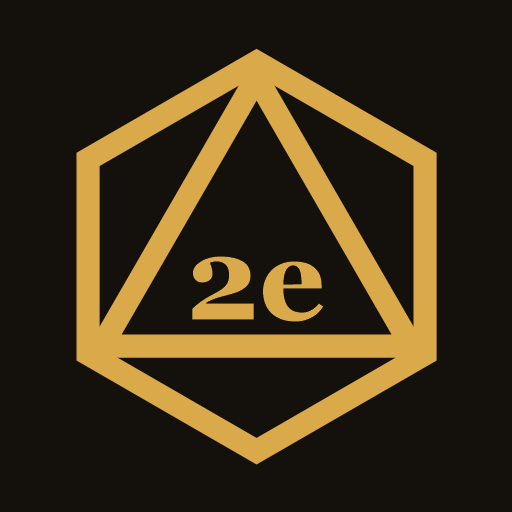
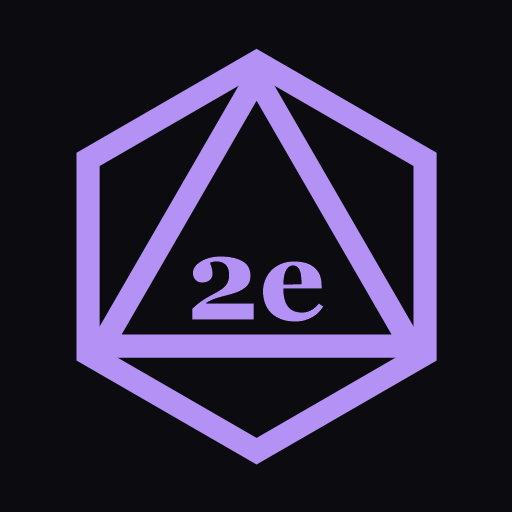
Make the toolkit properly installable on Android
The PWA plumbing was already in place and every path already resolved
correctly under the Pages subpath. Three gaps remained.

Google Fonts were never cached. Cinzel and Inter are the only cross-origin
assets, and cachePut() refused anything cross-origin, so offline the app
fell back to system-ui and Georgia. A cross-origin stylesheet or font is
requested no-cors, so the response is opaque -- ok is false and status is 0
even on success -- and storable() now accepts that for those two hosts only.
They cannot be precached because the woff2 URLs live inside the stylesheet
and vary by browser, so they are cached on first use instead.

Android masks an adaptive icon to a circle, and the plain art overflowed
that safe zone by ~4px at the d20's top and bottom points, so declaring it
maskable would have clipped it. Added icon-maskable-192/512.png: the same
art inset to 90%, listed alongside the originals with explicit purpose.

Recoloured all four icons from gold to --accent purple on --bg, so the
home-screen icon matches the app rather than looking like a different one.

Also added apple-touch-icon and mobile-web-app-capable (Chrome warns about
the Apple-prefixed tag alone), plus manifest id and scope.

CACHE_NAME bumped to v22 so installed phones pick all of this up.

Changed region(s): [[0.125, 0.0938, 0.875, 0.9062]]

diff --git a/service-worker.js b/service-worker.js
@@ -1,4 +1,4 @@
-const CACHE_NAME = 'pf2e-gm-v20';
+const CACHE_NAME = 'pf2e-gm-v22';
 
 // Where this worker is served from: '/' locally, '/pf2e-gm-toolkit/' on GitHub Pages.
 // Every path test below is relative to it. An absolute '/src/' test passed locally and
@@ -28,8 +28,17 @@ const OFFLINE_URLS = [
   './src/views/notes.js',
   './src/views/party.js',
   './icons/icon-192.png',
-  './icons/icon-512.png'
+  './icons/icon-512.png',
+  './icons/icon-maskable-192.png',
+  './icons/icon-maskable-512.png'
 ];
+
+// Google Fonts. Cinzel and Inter are the only cross-origin assets the app loads, and
+// they were never cached: cachePut() refuses anything cross-origin, so offline the app
+// silently fell back to system-ui and Georgia. They cannot be precached — the woff2 URLs
+// live inside the stylesheet and vary by browser — so they are cached on first use
+// instead, which is fine because installing already requires one online load.
+const FONT_ORIGINS = ['https://fonts.googleapis.com', 'https://fonts.gstatic.com'];
 
 // Small data files, warmed in the background after activation. Together well under
 // 2 MB, so pulling them costs little and makes the Campaign screen and most of the
@@ -109,8 +118,21 @@ function isLive(url) {
     LIVE_DATA.some(f => url.pathname.endsWith('/data/' + f));
 }
 
+/**
+ * A cross-origin stylesheet or font is requested no-cors, so what comes back is an
+ * opaque response: `ok` is false and `status` is 0 even on success. `cache.put()` stores
+ * one anyway — unlike `cache.add()`, which rejects it — and it replays fine, so the
+ * fonts survive offline. Nothing else cross-origin is stored: an opaque response hides
+ * its own failures, and that is only an acceptable trade for two known font hosts.
+ */
+function storable(request, response) {
+  const origin = new URL(request.url).origin;
+  if (FONT_ORIGINS.includes(origin)) return response.ok || response.type === 'opaque';
+  return response.ok && origin === self.location.origin;
+}
+
 function cachePut(request, response) {
-  if (response.ok && new URL(request.url).origin === self.location.origin) {
+  if (storable(request, response)) {
     const copy = response.clone();
     caches.open(CACHE_NAME).then(cache => cache.put(request, copy));
   }
@@ -139,8 +161,9 @@ self.addEventListener('fetch', (event) => {
     return;
   }
 
-  // Cache-first for reference data and icons — multi-megabyte and effectively immutable
-  // between regenerations, and stored on first use so whatever you open goes offline.
+  // Cache-first for reference data, icons and the Google Fonts files — multi-megabyte
+  // and effectively immutable between regenerations, and stored on first use so whatever
+  // you open goes offline. Fonts land here because isLive() is false for cross-origin.
   event.respondWith(caches.match(request).then(hit =>
     hit || fetch(request).then(resp => cachePut(request, resp))));
 });

diff --git a/index.html b/index.html
@@ -5,10 +5,14 @@
   <meta name="viewport" content="width=device-width,initial-scale=1,viewport-fit=cover" />
   <meta name="theme-color" content="#0c0c10" />
   <link rel="manifest" href="manifest.json">
+  <meta name="mobile-web-app-capable" content="yes">
   <meta name="apple-mobile-web-app-capable" content="yes">
   <meta name="apple-mobile-web-app-status-bar-style" content="black-translucent">
   <meta name="apple-mobile-web-app-title" content="PF2e GM">
+  <link rel="apple-touch-icon" href="icons/icon-192.png">
   <title>PF2e GM Toolkit</title>
+  <link rel="preconnect" href="https://fonts.googleapis.com">
+  <link rel="preconnect" href="https://fonts.gstatic.com" crossorigin>
   <link href="https://fonts.googleapis.com/css2?family=Cinzel:wght@500;700&family=Inter:wght@400;600&display=swap" rel="stylesheet">
   <link rel="stylesheet" href="styles.css" />
 </head>

diff --git a/CLAUDE.md b/CLAUDE.md
@@ -35,6 +35,23 @@ conventions. This file only records the things that are easy to get wrong.
   stale `app.js`, so a newly added tab renders while its route does not exist and the
   tab silently does nothing for a whole session. Only `data/` and `icons/` are
   cache-first.
+- **`cachePut()` stores two cross-origin hosts on purpose.** Cinzel and Inter come from
+  `fonts.googleapis.com` and `fonts.gstatic.com`, and a cross-origin stylesheet or font is
+  requested no-cors, so the response is *opaque*: `ok` is false and `status` is 0 even on
+  success. `storable()` therefore accepts `type === 'opaque'` for those two origins only —
+  do not simplify it back to a plain same-origin test, which is what left the app rendering
+  in `system-ui`/Georgia whenever it was offline. They cannot go in `OFFLINE_URLS`: the
+  `woff2` URLs live inside the stylesheet and vary by browser, so they are cached on first
+  use. Nothing else cross-origin is cached — an opaque response hides its own failures.
+- **The icons come in two pairs and both are listed in the manifest.** `icon-192/512.png`
+  are `purpose: "any"`; `icon-maskable-192/512.png` are the same art inset to 90% for
+  `purpose: "maskable"`, because Android masks an adaptive icon to a circle and the plain
+  art overflows that safe zone by a few pixels at the d20's top and bottom points. Replace
+  all four together, and keep maskable content inside the middle 80%. The art follows the
+  same tokens as the app — `--accent` `#b592f6` on `--bg` `#0c0c10` — so recolouring the
+  palette means recolouring these too; they were gold against a warm dark until the
+  purple accent landed, and looked like a different app on the home screen.
+
 - **Paths stay relative; the service worker derives its own base.** The app is deployed to
   GitHub Pages under `/pf2e-gm-toolkit/`, not a domain root, so a leading-slash path works
   locally and 404s only in production. `BASE` in `service-worker.js` comes from

diff --git a/README.md b/README.md
@@ -41,6 +41,14 @@ To install it on a phone: open the URL in the browser and use *Add to Home Scree
 then launches standalone and works offline, warming the small reference files on first run
 and caching the large ones as you open them.
 
+`icons/` holds two pairs. `icon-192.png` and `icon-512.png` are the plain icons; the
+`icon-maskable-*.png` pair is the same art inset to 90% so it survives the circular mask
+Android applies to an adaptive icon. Both pairs are listed in the manifest with the
+matching `purpose`. Replacing the art means replacing all four — a maskable icon whose
+content strays outside the middle 80% gets its corners clipped on the home screen. The art
+uses the same tokens as the app, `--accent` on `--bg`, so it should be recoloured whenever
+the palette is.
+
 ## Tests
 
 ```powershell
@@ -336,7 +344,11 @@ it up from the manifest with no view change.
   **network-first**, with the cache only as an offline fallback. It has to update as one
   unit: cache-first left a new `index.html` paired with a stale `app.js`, so a newly
   added tab rendered but its route did not exist and the tab silently did nothing. Only
-  `data/` and `icons/` are cache-first.
+  `data/`, `icons/` and the Google Fonts files are cache-first.
+- Cinzel and Inter are the only cross-origin assets, and they are cached on first use.
+  They cannot be precached — the `woff2` URLs live inside the stylesheet and vary by
+  browser — so the fonts go offline after one online load, which installing needs anyway.
+  Until this was added the app fell back to `system-ui`/Georgia whenever it was offline.
 - Colour lives entirely in the `:root` tokens in [styles.css](styles.css) — greyscale
   ground, purple for every primary accent, green for healthy/done/low, and red reserved
   for danger. Each accent has three forms: `--accent` (text/marks), `--accent-soft`
